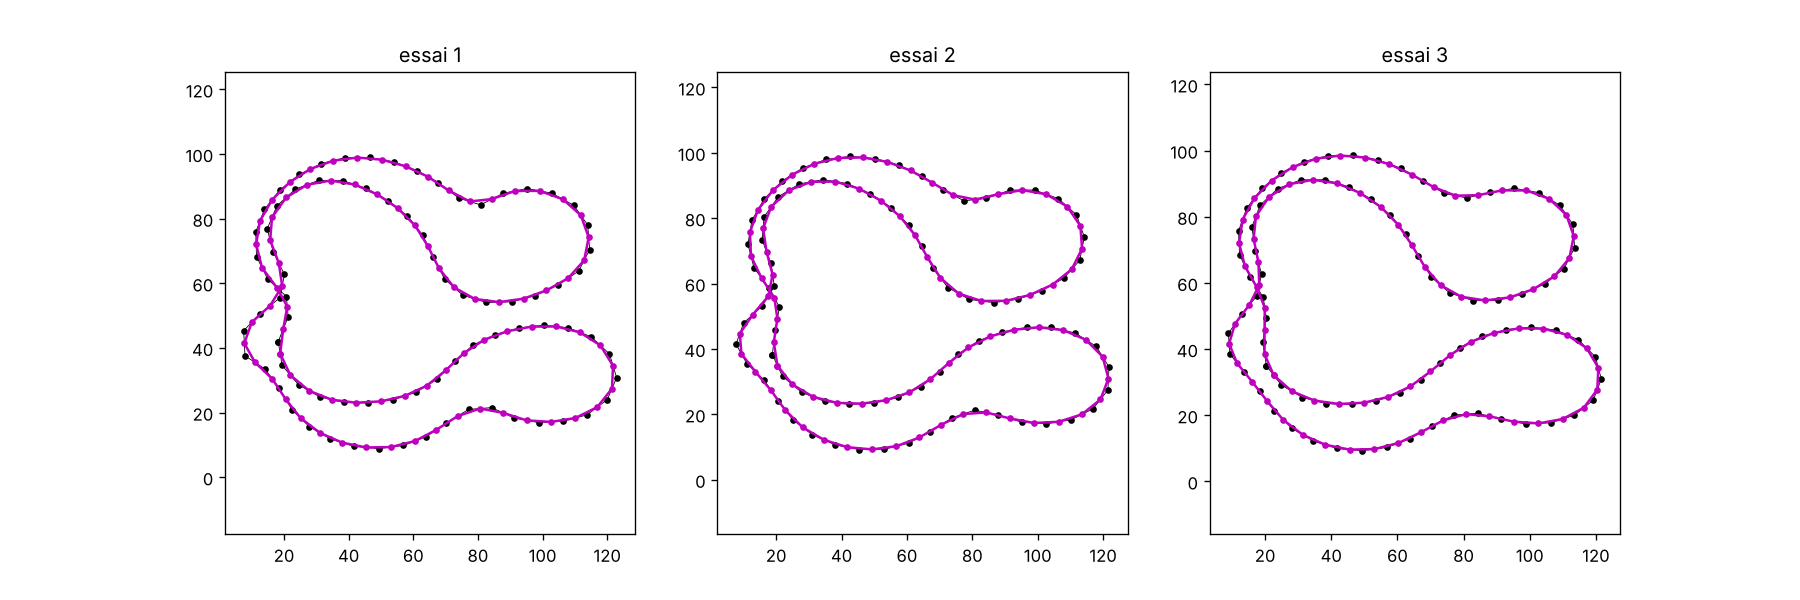
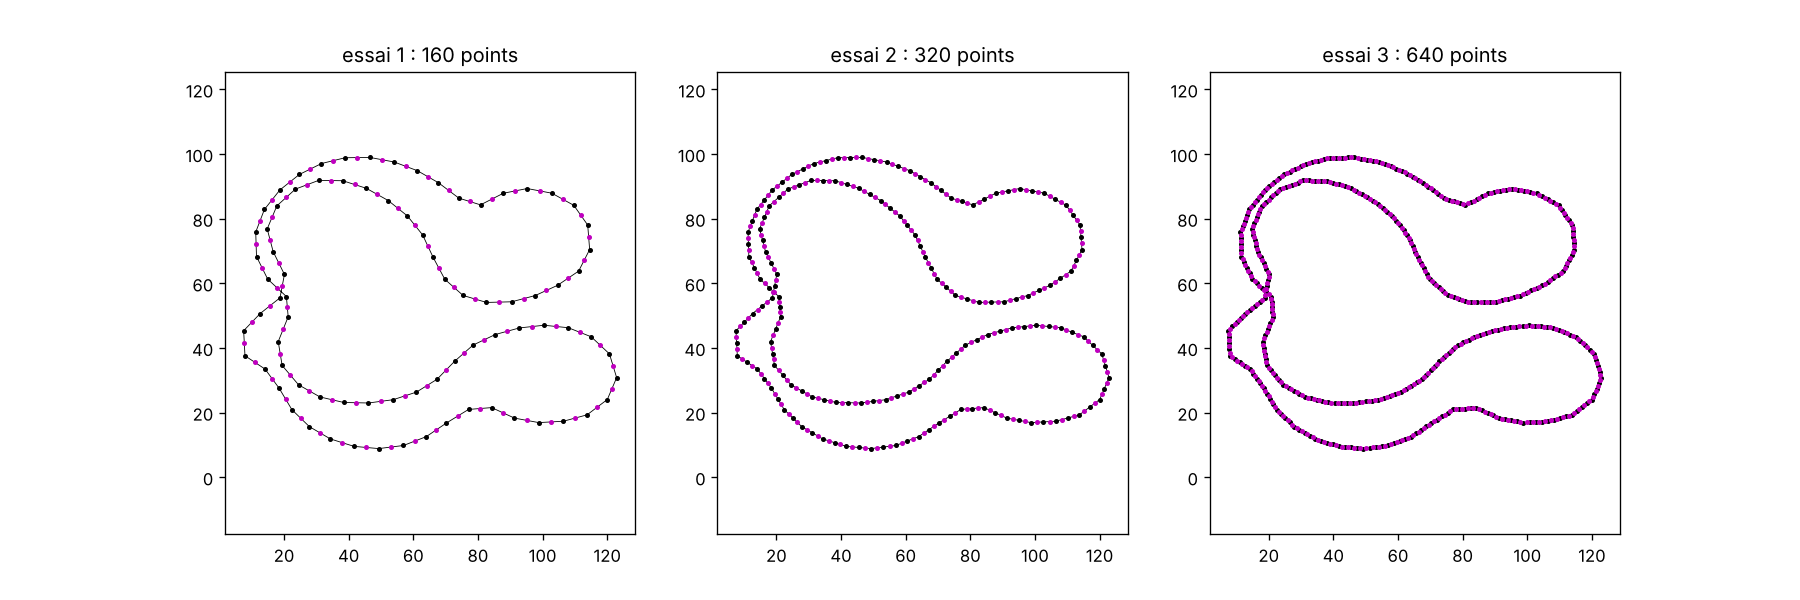
Milieux : on ajoute les points à chaque itération
Claude-Session: https://claude.ai/code/session_0147kh8MyH1yrW83KnKZ5LUs

diff --git a/tp_bspline_milieux.py b/tp_bspline_milieux.py
@@ -1,7 +1,7 @@
 # Méthode des points milieux
 # Idée : entre le point 1 et le point 2 je mets un point au milieu,
 # entre le point 2 et le point 3 aussi, etc.
-# Ensuite je relie tous les points du milieu entre eux.
+# Je garde tous les anciens points et j'ajoute les milieux : il y a de plus en plus de points.
 import sys
 import matplotlib
 matplotlib.use("Agg")          # pour enregistrer l'image sans ouvrir de fenêtre
@@ -26,31 +26,41 @@ for i in range(1, len(lignes)):          # on saute la 1ère ligne (index,x,y)
     X.append(float(morceaux[1]))
     Y.append(float(morceaux[2]))
 
-# 2) Faire nb fois la méthode du milieu
+# 2) Faire nb fois : on AJOUTE un point au milieu entre chaque couple de points
 plt.figure(figsize=(5 * nb, 5))
 
 for essai in range(1, nb + 1):           # essai = 1, 2, ..., nb
     n = len(X)
-    Xm = []                              # x des points milieux
-    Ym = []                              # y des points milieux
+    Xnew = []                            # nouvelle liste de x (points + milieux)
+    Ynew = []                            # nouvelle liste de y
+    Xm = []                              # seulement les milieux (pour les dessiner en rose)
+    Ym = []
 
     for i in range(n):
         j = i + 1                        # le point suivant
         if j == n:                       # si on est au dernier point,
             j = 0                        # le suivant c'est le premier (contour fermé)
-        Xm.append((X[i] + X[j]) / 2)     # milieu = moyenne des 2 points
-        Ym.append((Y[i] + Y[j]) / 2)
+        xm = (X[i] + X[j]) / 2           # milieu = moyenne des 2 points
+        ym = (Y[i] + Y[j]) / 2
 
-    # 3) Dessin : points de départ en noir, milieux reliés en rose
+        Xnew.append(X[i])                # d'abord le point de départ
+        Ynew.append(Y[i])
+        Xnew.append(xm)                  # puis le point du milieu juste après
+        Ynew.append(ym)
+        Xm.append(xm)
+        Ym.append(ym)
+
+    # 3) Dessin : points de départ en noir, nouveaux milieux en rose
     plt.subplot(1, nb, essai)
-    plt.plot(X + [X[0]], Y + [Y[0]], "k.-", linewidth=0.5)     # départ
-    plt.plot(Xm + [Xm[0]], Ym + [Ym[0]], "m-o", markersize=3)  # milieux
-    plt.title("essai " + str(essai))
+    plt.plot(Xnew + [Xnew[0]], Ynew + [Ynew[0]], "k-", linewidth=0.5)  # on relie tout
+    plt.plot(X, Y, "k.", markersize=4)                                 # anciens points
+    plt.plot(Xm, Ym, "m.", markersize=4)                               # nouveaux points
+    plt.title("essai " + str(essai) + " : " + str(len(Xnew)) + " points")
     plt.axis("equal")
 
-    # 4) Les milieux deviennent les nouveaux points pour l'essai suivant
-    X = Xm
-    Y = Ym
+    # 4) La nouvelle liste (points + milieux) sert pour l'essai suivant
+    X = Xnew
+    Y = Ynew
 
 plt.savefig("fig4_methode_milieux.png", dpi=120)
-print("fini")
+print("fini, il y a", len(X), "points à la fin")
